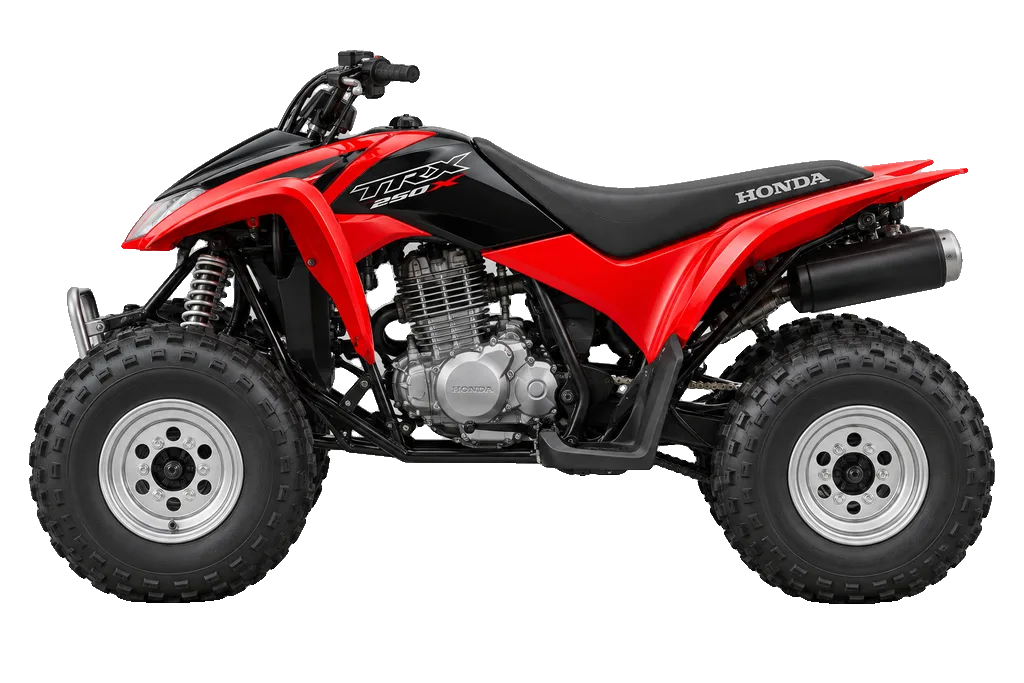
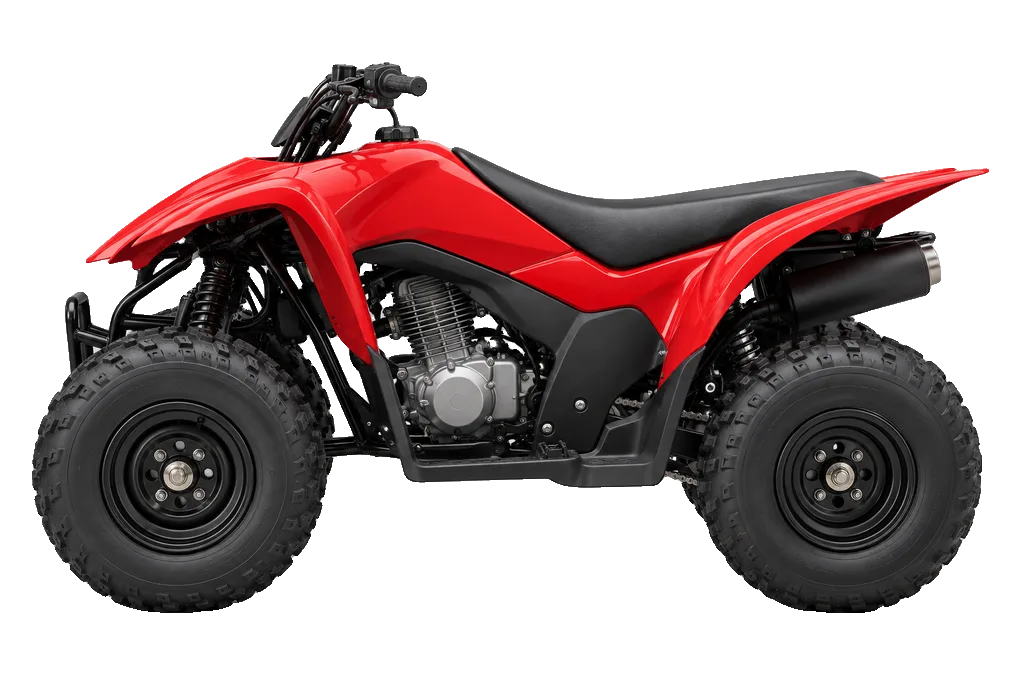
[codex/razpe] fix(assets): enforce strict vehicle QC

diff --git a/tools/generate.py b/tools/generate.py
@@ -35,8 +35,19 @@ PROMPT_TEMPLATE = (
     "camera exactly perpendicular to the car, facing left, zero perspective angle, "
     "orthographic product-catalog look. Photorealistic, crisp studio lighting, clean "
     "reflections. Isolated on a plain solid light gray background, soft contact shadow "
-    "directly under the tires only, no text, no watermark, car centered filling "
+    "directly under the tires only. No text, lettering, logos, badges, model names, "
+    "decals, or watermark. Car centered filling "
     "85 percent of frame width."
+)
+CAR_STRICT_PROMPT_TEMPLATE = (
+    "Official manufacturer press render of exactly one {desc}, shown as a PERFECT "
+    "true left-facing side elevation. Camera exactly perpendicular to the vehicle, "
+    "zero perspective, no three-quarter angle, no front view, no rear view. Include "
+    "the complete vehicle in one coherent silhouette, fully inside the frame. "
+    "Photorealistic catalog studio lighting and clean reflections on a plain light "
+    "gray background. No text, lettering, logos, badges, model names, decals, "
+    "watermark, ground, floor, or cast shadow. Centered and filling 85 percent of "
+    "the frame width."
 )
 TWO_WHEEL_PROMPT_TEMPLATE = (
     "Official press-style studio render of a {desc}. PERFECT flat side profile view, "
@@ -45,7 +56,8 @@ TWO_WHEEL_PROMPT_TEMPLATE = (
     "studio lighting, clean reflections. Show exactly one complete two-wheel vehicle, "
     "including both wheels, with no rider, no person, no kickstand, no luggage stand, "
     "and no extra parts. Isolated on a plain solid light gray background, soft contact "
-    "shadows directly under the tires only, no text, no watermark, vehicle centered "
+    "shadows directly under the tires only. No text, lettering, logos, badges, model "
+    "names, decals, or watermark. Vehicle centered "
     "filling 82 percent of frame width."
 )
 TWO_WHEEL_STRICT_PROMPT_TEMPLATE = (
@@ -55,14 +67,15 @@ TWO_WHEEL_STRICT_PROMPT_TEMPLATE = (
     "or person. Include the complete frame, handlebars, seat, engine or body, and "
     "both wheels in one coherent motorcycle or scooter silhouette. Photorealistic "
     "catalog studio lighting, crisp clean reflections, plain light gray background, "
-    "subtle contact shadows under the tires only, no text, no watermark, no extra "
+    "subtle contact shadows under the tires only. No text, lettering, logos, badges, "
+    "model names, decals, watermark, or extra "
     "vehicle, centered and fully inside the frame."
 )
 GEN_SIZE = "1536x1024"
 WEBP_WIDTH = 1024
 # Cutout model. Razpe's pick 2026-07-16: isnet is 8s/car vs birefnet's 68s and he
 # judged the edges equal or better. Whole-list runtime: ~5h instead of ~8 days.
-CUTOUT_MODEL = 'isnet-general-use'
+CUTOUT_MODEL = 'birefnet-general'
 WEBP_QUALITY = 82
 
 
@@ -141,6 +154,18 @@ def qc(py: Path, png: Path) -> str | None:
         "if cov < 0.15: print(f'subject too small ({cov:.0%})'); sys.exit(0)\n"
         "if box[0] <= 1 or box[2] >= w-1: print('subject clipped horizontally'); sys.exit(0)\n"
         "if (box[2]-box[0]) <= (box[3]-box[1]): print('not landscape: likely not a side profile')\n"
+        "bottom = a.crop((box[0], max(box[1], box[3]-12), box[2], box[3]))\n"
+        "low = sum(1 for v in bottom.getdata() if 1 < v < 80)\n"
+        "solid = sum(1 for v in bottom.getdata() if v >= 180)\n"
+        "if low > max(20, solid * 2): print('ground shadow retained by cutout'); sys.exit(0)\n"
+        "import shutil, subprocess, tempfile\n"
+        "if shutil.which('tesseract'):\n"
+        "    bg = Image.new('RGB', img.size, 'white'); bg.paste(img.convert('RGB'), mask=a)\n"
+        "    with tempfile.NamedTemporaryFile(suffix='.png') as f:\n"
+        "        bg.save(f.name)\n"
+        "        ocr = subprocess.run(['tesseract', f.name, 'stdout', '--psm', '11'], capture_output=True, text=True)\n"
+        "        words = [w for w in ocr.stdout.split() if sum(c.isalpha() for c in w) >= 3]\n"
+        "        if words: print('text detected: ' + ' '.join(words[:4])); sys.exit(0)\n"
     )
     res = subprocess.run([str(py), "-c", script, str(png)], capture_output=True, text=True)
     reason = res.stdout.strip()
@@ -259,7 +284,7 @@ def rebuild_manifest() -> None:
     print(f"manifest: {len(vehicles)} vehicles")
 
 
-def process(slug: str, desc: str, force: bool, py: Path, two_wheel: bool) -> bool:
+def process(slug: str, desc: str, force: bool, py: Path, two_wheel: bool, strict: bool) -> bool:
     slug = slug.strip().lower()
     dst = V1 / f"{slug}.webp"
     if dst.exists() and not force:
@@ -269,7 +294,10 @@ def process(slug: str, desc: str, force: bool, py: Path, two_wheel: bool) -> boo
     with tempfile.TemporaryDirectory() as td:
         raw, cut = Path(td) / "raw.png", Path(td) / "cut.png"
         try:
-            template = TWO_WHEEL_PROMPT_TEMPLATE if two_wheel else PROMPT_TEMPLATE
+            if strict:
+                template = TWO_WHEEL_STRICT_PROMPT_TEMPLATE if two_wheel else CAR_STRICT_PROMPT_TEMPLATE
+            else:
+                template = TWO_WHEEL_PROMPT_TEMPLATE if two_wheel else PROMPT_TEMPLATE
             generate_raw(template.format(desc=desc.strip()), raw)
         except subprocess.CalledProcessError:
             _p(f"FAIL {slug}: generation errored")
@@ -280,7 +308,8 @@ def process(slug: str, desc: str, force: bool, py: Path, two_wheel: bool) -> boo
         if reason and two_wheel:
             _p(f"RETRY {slug}: QC rejected: {reason}")
             try:
-                generate_raw(TWO_WHEEL_STRICT_PROMPT_TEMPLATE.format(desc=desc.strip()), raw)
+                retry_template = TWO_WHEEL_STRICT_PROMPT_TEMPLATE if two_wheel else CAR_STRICT_PROMPT_TEMPLATE
+                generate_raw(retry_template.format(desc=desc.strip()), raw)
                 wait_for_build_clear()
                 cutout(py, raw, cut)
                 reason = qc(py, cut)
@@ -301,6 +330,7 @@ def main() -> int:
     ap.add_argument("--list", type=Path, help="file with slug|description lines")
     ap.add_argument("--force", action="store_true", help="regenerate even if the asset exists")
     ap.add_argument("--two-wheel", action="store_true", help="use the motorcycle or scooter side-profile prompt")
+    ap.add_argument("--strict", action="store_true", help="use the no-branding strict prompt on the first attempt")
     ap.add_argument("--rebuild-manifest", action="store_true")
     args = ap.parse_args()
 
@@ -328,7 +358,7 @@ def main() -> int:
         if not CIMG.exists():
             die(f"chatgpt-imagegen not found at {CIMG} (set CIMG)")
         py = ensure_venv()
-        failed = [slug for slug, desc in jobs if not process(slug, desc, args.force, py, args.two_wheel)]
+        failed = [slug for slug, desc in jobs if not process(slug, desc, args.force, py, args.two_wheel, args.strict)]
         if failed:
             print(f"\n{len(failed)} failed: {', '.join(failed)}")
     rebuild_manifest()
